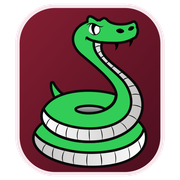
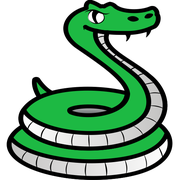
feat(identidade): fundo branco de alto contraste e cobrinha em tamanho maximo no site e painel ADM

diff --git a/components/admin/AdminLayout.tsx b/components/admin/AdminLayout.tsx
@@ -151,7 +151,7 @@ export default function AdminLayout({ usuario, breadcrumb, activeHref, pendentes
           }}
         >
           <img
-            src="/icone-painel-adm.svg"
+            src="/icone-painel-adm.svg?v=5"
             alt=""
             width={22}
             height={22}
@@ -316,7 +316,7 @@ export default function AdminLayout({ usuario, breadcrumb, activeHref, pendentes
             </button>
 
             <img
-              src="/icone-painel-adm.svg"
+              src="/icone-painel-adm.svg?v=5"
               alt="Sindicato dos Químicos ADM"
               width={28}
               height={28}
@@ -373,7 +373,7 @@ export default function AdminLayout({ usuario, breadcrumb, activeHref, pendentes
         >
           <span style={{ display: 'inline-flex', alignItems: 'center', gap: '8px' }}>
             <img
-              src="/icone-painel-adm.svg"
+              src="/icone-painel-adm.svg?v=5"
               alt=""
               width={18}
               height={18}

diff --git a/app/admin/layout.tsx b/app/admin/layout.tsx
@@ -3,11 +3,11 @@ import type { Metadata } from 'next'
 export const metadata: Metadata = {
   icons: {
     icon: [
-      { url: '/icone-painel-adm.svg?v=4', type: 'image/svg+xml' },
-      { url: '/icone-painel-adm.png?v=4', type: 'image/png', sizes: '512x512' },
+      { url: '/icone-painel-adm.svg?v=5', type: 'image/svg+xml' },
+      { url: '/icone-painel-adm.png?v=5', type: 'image/png', sizes: '512x512' },
     ],
-    shortcut: '/icone-painel-adm.png?v=4',
-    apple: '/icone-painel-adm.png?v=4',
+    shortcut: '/icone-painel-adm.png?v=5',
+    apple: '/icone-painel-adm.png?v=5',
   },
 }
 

diff --git a/app/layout.tsx b/app/layout.tsx
@@ -35,11 +35,11 @@ export const metadata: Metadata = {
   },
   icons: {
     icon: [
-      { url: '/icone-site.svg?v=2', type: 'image/svg+xml' },
-      { url: '/icone-site.png?v=2', type: 'image/png', sizes: '512x512' },
+      { url: '/icone-site.svg?v=3', type: 'image/svg+xml' },
+      { url: '/icone-site.png?v=3', type: 'image/png', sizes: '512x512' },
     ],
-    shortcut: '/icone-site.png?v=2',
-    apple: '/apple-touch-icon.png?v=2',
+    shortcut: '/icone-site.png?v=3',
+    apple: '/apple-touch-icon.png?v=3',
   },
   robots: {
     index: true,

diff --git a/app/admin/login/page.tsx b/app/admin/login/page.tsx
@@ -63,7 +63,7 @@ export default async function LoginPage({ searchParams }: Props) {
             gap: '8px',
           }}>
             <img
-              src="/icone-painel-adm.svg"
+              src="/icone-painel-adm.svg?v=5"
               alt=""
               width={24}
               height={24}
